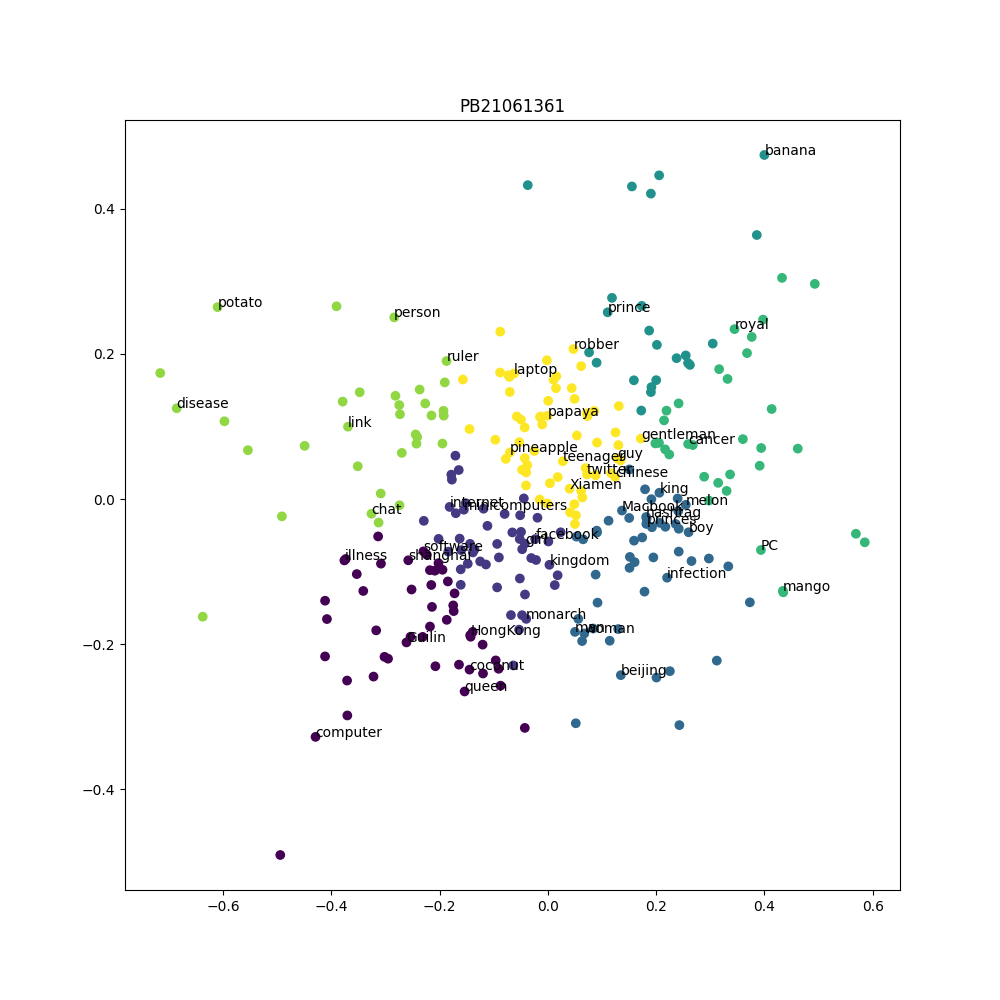
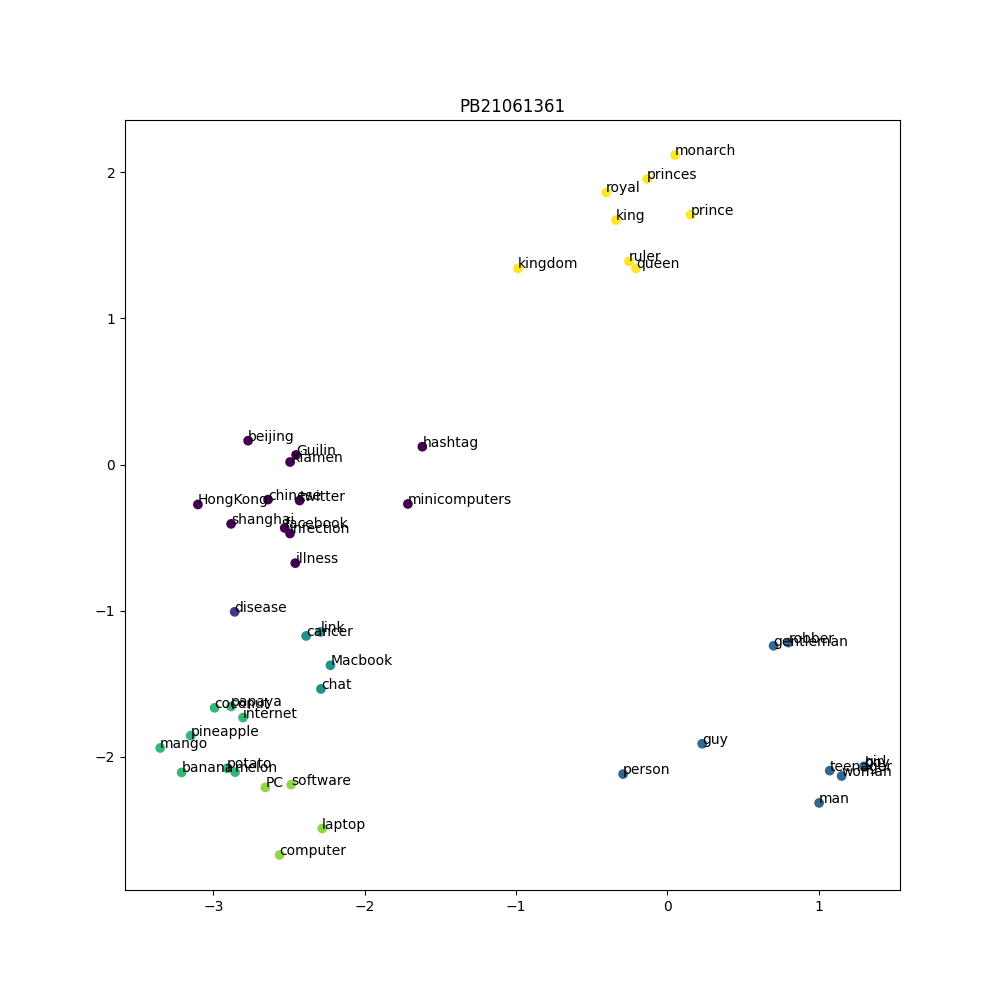
add part1

diff --git a/part_1/PCAKMeans.py b/part_1/PCAKMeans.py
@@ -2,6 +2,7 @@ from sklearn.datasets import load_wine
 import numpy as np 
 import matplotlib.pyplot as plt
 from gensim.models import KeyedVectors
+from Debug import PicPoints
 
 
 def get_kernel_function(kernel:str):
@@ -9,7 +10,8 @@ def get_kernel_function(kernel:str):
     kenerl_dict = {
         "linear": lambda x, y: np.dot(x, y),
         "poly": lambda x, y: (np.dot(x, y) + 1) ** 3,
-        "rbf": lambda x, y: np.exp(-np.linalg.norm(x - y) ** 2 / 2), # Gaussian kernel
+        "rbf": lambda x, y: np.exp(-np.linalg.norm(x - y) ** 2 / 8), # Gaussian kernel
+        "laplacian": lambda x, y: np.exp(-np.linalg.norm(x - y) / 4), # Laplacian kernel
         "sigmoid": lambda x, y: np.tanh(np.dot(x, y) + 1),
     }
     return kenerl_dict[kernel]
@@ -42,22 +44,26 @@ class PCA:
         # TODO: implement PCA algorithm
         # centralize the data
         kenerl_matrix = self._computerKernelMatrix(X, self.kernel_f)
+        draw = PicPoints().to_mtrx(kenerl_matrix)
         K_centered = self._computeKernelCentered(kenerl_matrix)
         
         eigenvalues, eigenvectors = np.linalg.eig(K_centered)
         idx = eigenvalues.argsort()[::-1]
         eigenvalues = eigenvalues[idx]
         eigenvectors = eigenvectors[:, idx]
-        eigenvectors = eigenvectors / np.sqrt(eigenvalues)
+        eigenvectors = eigenvectors * np.sqrt(abs(eigenvalues))
         
         # reduction matrix
-        self.Matrix_reduction = eigenvectors[:, :self.n_components]
+        return eigenvectors[:, :self.n_components], kenerl_matrix
         pass
 
     def transform(self, X:np.ndarray):
         # X: [n_samples, n_features]
         # TODO: transform the data to low dimension
-        X_reduced = np.dot(X.T, self.Matrix_reduction)
+        A, K = self.fit(X)
+        # normalize the A
+        A = A / np.linalg.norm(A, axis=1, keepdims=True)
+        X_reduced = K.dot(A)
         return X_reduced
 
 class KMeans:
@@ -76,7 +82,7 @@ class KMeans:
         self.centers = np.zeros((self.k, d))
         for k in range(self.k):
             # use more random points to initialize centers, make kmeans more stable
-            random_index = np.random.choice(n, size=10, replace=False)
+            random_index = np.random.choice(n, size=1, replace=False)
             self.centers[k] = points[random_index].mean(axis=0)
         
         return self.centers
@@ -139,8 +145,11 @@ if __name__=='__main__':
     pca = PCA(n_components=2, kernel="rbf")
     pca.fit(data)
     data_pca = pca.transform(data)
+    
+    dbg = PicPoints()
+    dbg.plot(data_pca, words)
 
-    kmeans = KMeans(n_clusters=7, max_iter=15)
+    kmeans = KMeans(n_clusters=7, max_iter=10)
     kmeans.initialize_centers(data_pca)
     kmeans.fit(data_pca)
     clusters = kmeans.predict(data_pca)

diff --git a/test.py b/test.py
@@ -1,42 +1,5 @@
 import json
 import numpy as np
 
-class NumpyJSONEncoder:
-    def __init__(self, data):
-        self.data = data
-
-    @staticmethod
-    def convert_numpy(obj):
-        if isinstance(obj, np.integer):
-            return int(obj)
-        elif isinstance(obj, np.floating):
-            return float(obj)
-        elif isinstance(obj, np.ndarray):
-            return obj.tolist()
-        elif isinstance(obj, (np.bool_, bool)):
-            return bool(obj)
-        elif isinstance(obj, (np.str_, str)):
-            return str(obj)
-        else:
-            return obj
-
-    @classmethod
-    def convert_dict(cls, d):
-        if isinstance(d, dict):
-            return {cls.convert_numpy(k): cls.convert_dict(v) for k, v in d.items()}
-        elif isinstance(d, list):
-            return [cls.convert_dict(i) for i in d]
-        else:
-            return cls.convert_numpy(d)
-
-    def to_json(self):
-        converted_data = self.convert_dict(self.data)
-        return json.dumps(converted_data)
-
-# 使用示例
-a = {'qq': {np.int32(1): 'c'}, np.int32(2): 'b'}
-
-encoder = NumpyJSONEncoder(a)
-a_json = encoder.to_json()
-
-print(a_json)
+one_n = np.ones((5,5)) / 5
+print(one_n)

diff --git a/part_1/Debug.py b/part_1/Debug.py
@@ -1,5 +1,6 @@
 import json
 import numpy as np
+import matplotlib.pyplot as plt
 
 class NumpyJSONEncoder:
     def __init__(self, data):
@@ -32,5 +33,31 @@ class NumpyJSONEncoder:
     def to_json(self):
         converted_data = self.convert_dict(self.data)
         return converted_data
+    
+class PicPoints:
+    def __init__(self):
+        self.cluster = [0]*6 + [1]*8 + [2]*9 + [3]*7 + [4]*6 + [5]*4 + [6]*6
+    
+    def plot(self, points, words):
+        # points: [n_points, 2]
+        # words: [n_points, ]
+        plt.figure(figsize=(12, 12))
+        plt.scatter(points[:, 0], points[:, 1], c=self.cluster)
+        for i, word in enumerate(words):
+            plt.annotate(word, (points[i, 0], points[i, 1]))
+        plt.savefig("points.png")
+        pass
+    
+    def to_mtrx(self, K):
+        # K: [n_samples, n_samples]
+        with open("kernel.txt", "w") as f:
+            for cls in np.unique(self.cluster):
+                cls_idx = np.where(self.cluster == cls)[0]
+                cls_K = K[cls_idx][:, cls_idx]
+                f.write(f"cluster {cls}:\n")
+                f.write(f"{cls_K}\n")
+        
+        
+    
 
 

diff --git a/report.md b/report.md
@@ -1,3 +1,4 @@
 https://www.cnblogs.com/lifz-ml/p/15526494.html
 https://blog.csdn.net/u012328159/article/details/79413610
 https://stats.stackexchange.com/questions/131140/what-exactly-is-the-procedure-to-compute-principal-components-in-kernel-pca
+https://stats.stackexchange.com/questions/126014/how-to-project-a-new-vector-onto-the-pc-space-using-kernel-pca
